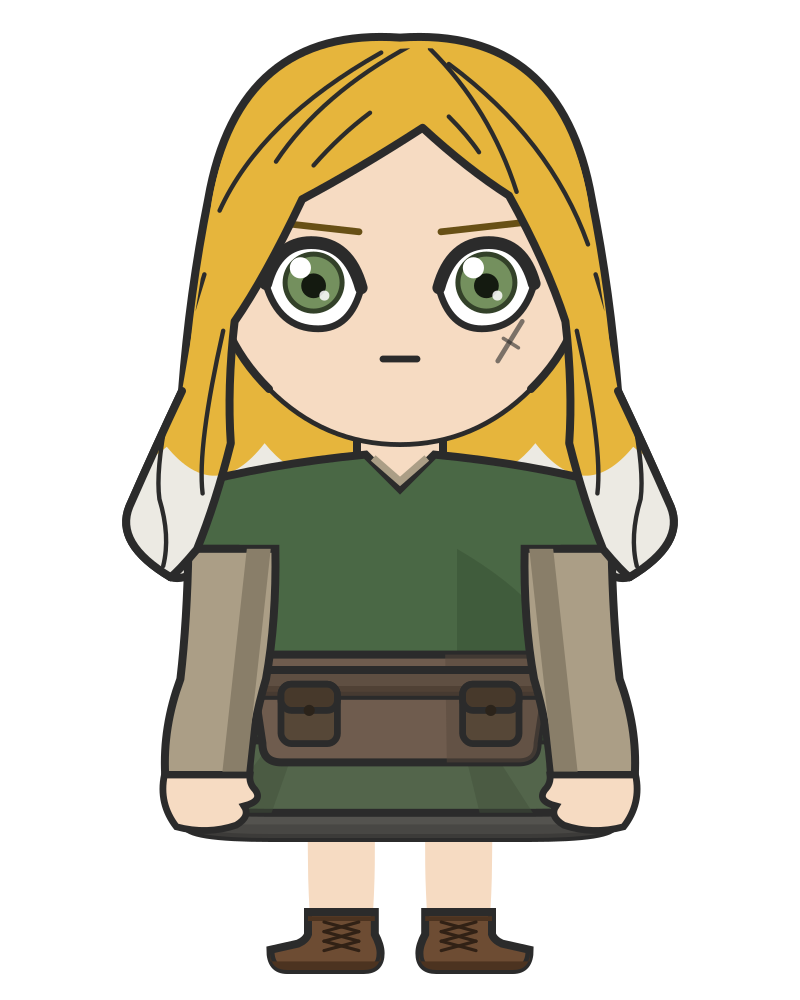
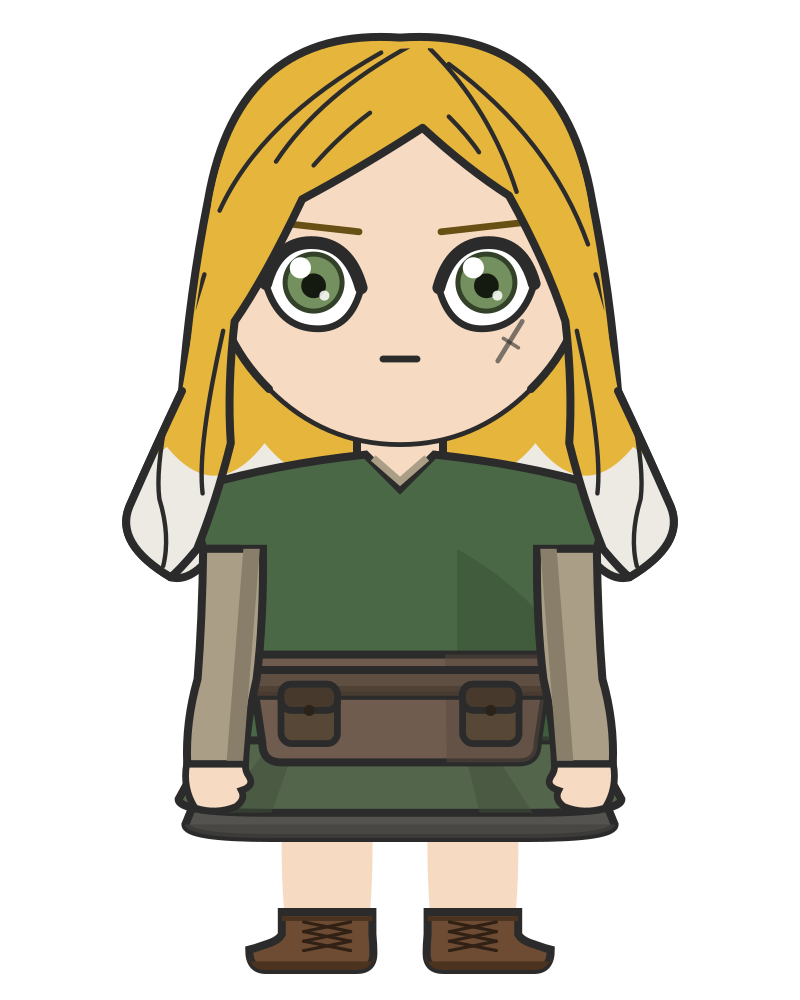
iterate on arms / legs

diff --git a/src/character.py b/src/character.py
@@ -1030,9 +1030,10 @@ def _hand(sk: Skeleton, p: CharacterParams, cx: float, wrist_y: float, w_wrist: 
     hand.
     """
     hw = w_wrist * 1.02
-    # 1.05 at the chibi end, not the 1.6 it shipped with: measured, the old
-    # hand ran about 1.6x the canon's relative size and read as a paw.
-    length = sk.arm_half_w * (1.05 + 1.40 * sk.build)
+    # Sized to land the canon's hand, about 0.10 of head width at chibi. The
+    # factor absorbs the arm it hangs off: when the chibi arm slimmed from
+    # 0.22 to 0.14 head radii this went up to keep the hand itself the same.
+    length = sk.arm_half_w * (1.35 + 1.10 * sk.build)
     tip = hw * (1.0 - 0.32 * sk.build)
 
     def x(offset: float) -> float:
@@ -1093,7 +1094,7 @@ def _legs_and_boots(sk: Skeleton, p: CharacterParams) -> str:
     # and a wider-hipped one's go out, which is the frame doing its job.
     #
     # A chibi keeps its legs tucked in close instead: its hips are nearly as wide
-    # as an adult's in head radii while its legs are less than half as thick, so
+    # as an adult's in head radii while its legs are notably thinner, so
     # hanging them off the hip would splay them to the corners of the body.
     tuck = sk.leg_half_w * 1.45
     gap = tuck + (sk.hip_half_w - w_top - tuck) * taper
@@ -1145,8 +1146,10 @@ def _boot(sk: Skeleton, p: CharacterParams, cx: float, w_ankle: float, w_knee: f
     color = p.outfit.boot_color
     # A foot is a foot: measured off the leg rather than off the ankle, so it
     # keeps its size when the shin's width is retuned. As a multiple of the ankle
-    # it doubled the moment the leg stopped tapering to a point.
-    boot_w = sk.leg_half_w * (2.90 - 0.90 * sk.build)
+    # it doubled the moment the leg stopped tapering to a point. The multiplier
+    # was retuned when the chibi leg thickened from 0.15 to 0.22 head radii, so
+    # the boot itself, already sized to the canon, came out the same.
+    boot_w = sk.leg_half_w * (2.08 - 0.08 * sk.build)
     foot_h = sk.foot_y - sk.ankle_y
     # The shaft climbs a third of the way to the knee, so it stays a boot rather
     # than becoming a waders as the shin gets longer at taller builds.

diff --git a/src/skeleton.py b/src/skeleton.py
@@ -132,7 +132,12 @@ def build_skeleton(
         hip_half_w=head_r * _lerp(0.95, 1.30, t) * (1.0 - 0.11 * f),
         hem_y=chin_y + body * _lerp(0.70, 0.58, t),
         hem_half_w=head_r * _lerp(1.11, 1.60, t),
-        arm_half_w=head_r * _lerp(0.22, 0.33, t),
+        # Legs run wider than arms at every build, the way limbs do. This
+        # started the other way around at chibi (arms 0.22, legs 0.15), which
+        # read as wrong the moment it was pointed at: measured off the canon
+        # chibis, sleeves come to about 0.155 head radii and legs about 0.23,
+        # an arm-to-leg ratio of roughly 0.7, the same as the adult's.
+        arm_half_w=head_r * _lerp(0.14, 0.33, t),
         # Rides the frame with the shoulder it hangs off. Broadening the shoulder
         # without moving the arm out leaves the garment's shoulder sticking out
         # past the sleeve, and two characters on different frames then disagree
@@ -142,7 +147,7 @@ def build_skeleton(
         # canon hangs a chibi's arms clear of the tunic's sides, and at 0.75
         # the thick chibi arm covered a third of the garment.
         arm_x=head_r * _lerp(0.85, 1.20, t) * (1.0 + 0.09 * f),
-        leg_half_w=head_r * _lerp(0.15, 0.42, t),
+        leg_half_w=head_r * _lerp(0.22, 0.42, t),
         knee_y=chin_y + body * _lerp(0.81, 0.708, t),
         ankle_y=chin_y + body * _lerp(0.93, 0.95, t),
         foot_y=chin_y + body,

diff --git a/STATUS.md b/STATUS.md
@@ -10,8 +10,9 @@ eyes, long-cut locks, pouches and buckle, boot toes and laces, mitten
 hands, realistic polish, off-centre parting; tasks 35-43), the second
 for shape (high-part fringe with visible forehead, eyes lower and
 apart with brows on the lash line, bell hair silhouette, chibi arms
-clear of the tunic with canon-sized hands; tasks 44-47). Per-task
-snapshots are in `out/35` through `out/47`.
+clear of the tunic with canon-sized hands; tasks 44-47), plus a
+user-caught limb-width swap (chibi legs now wider than arms, task 48).
+Per-task snapshots are in `out/35` through `out/48`.
 
 ## Where it stands
 
@@ -52,7 +53,10 @@ What is parametrized:
   also happens to land the crotch gap where `ref/satoshi.png` has it, each
   inner edge about 0.09 head radii off centre. A chibi keeps its legs
   tucked in close instead, since its hips are nearly as wide as an adult's
-  in head radii while its legs are less than half as thick.
+  in head radii while its legs are notably thinner. Legs always run wider
+  than arms, though: the chibi shipped inverted (arms 1.3x the legs) until
+  it was pointed at, and the canon chibis measure the same arm-to-leg
+  ratio as the adult, about 0.7.
 - **Garments.** `Outfit` carries one field per piece: tunic,
   undersleeve, belt, apron, skirt, underskirt, trousers, pouches,
   boots, plus a `skirt_length`. A garment is worn when its color is
